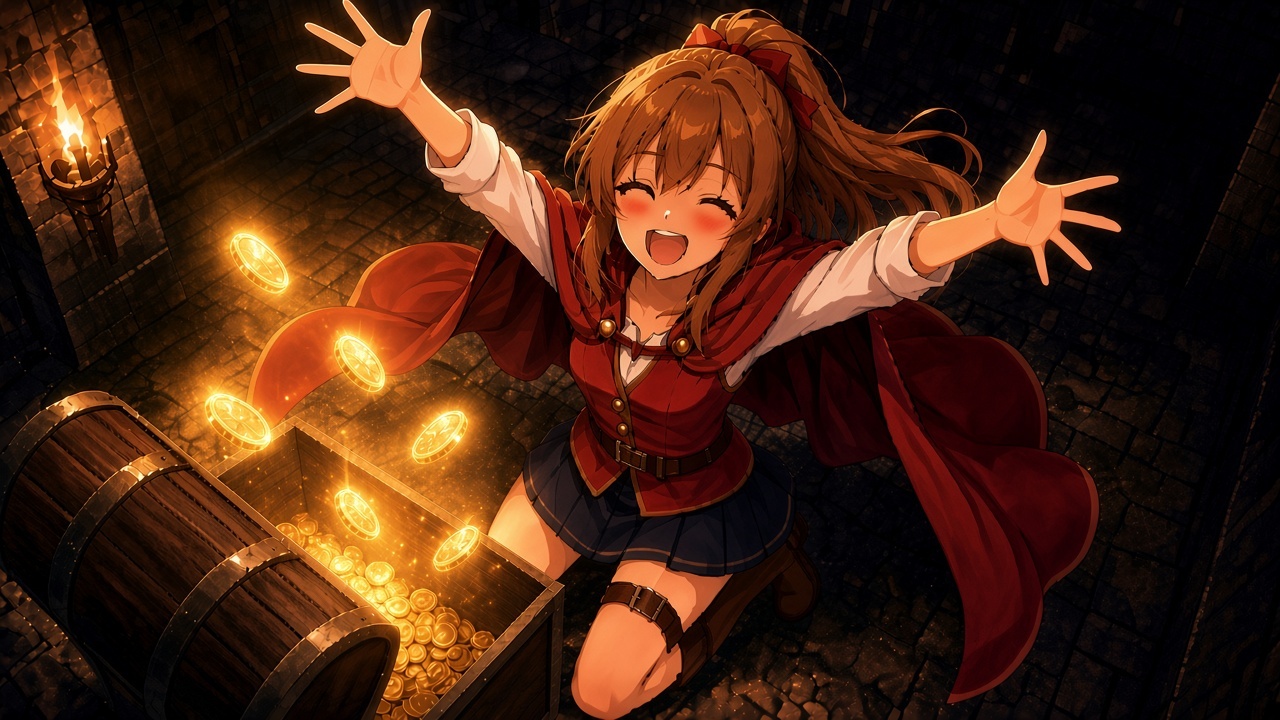
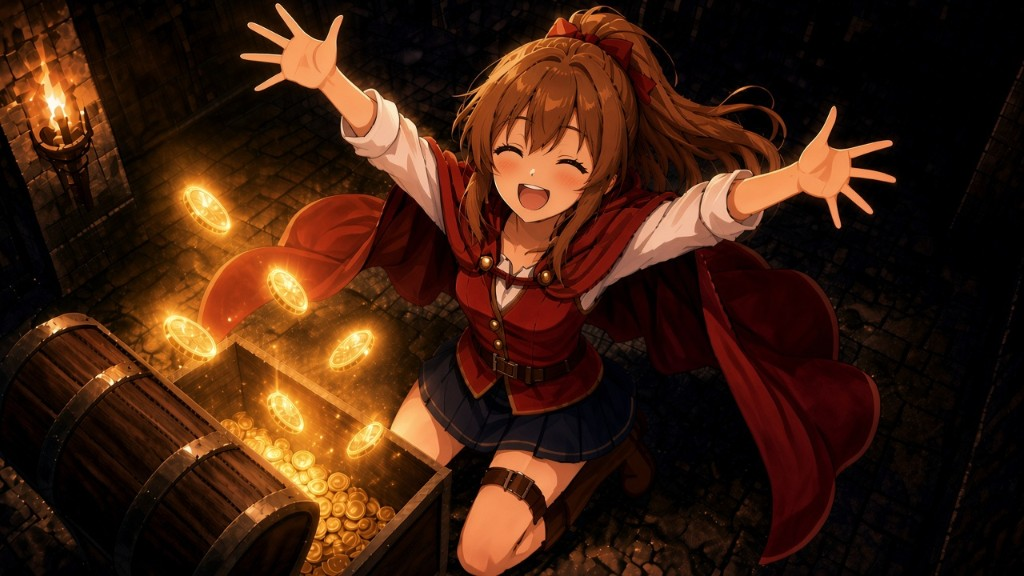
勝利の一枚絵を、宝箱の前で両手を広げる絵に差し替える。

diff --git a/index.html b/index.html
@@ -7159,7 +7159,7 @@
         battle: "girl-battle.png?v=40",
         battleRatio: "3 / 4",
         defeat: "girl-defeat.jpg?v=17",
-        victory: "girl-victory.jpg?v=26",
+        victory: "girl-victory.jpg?v=27",
         bless: "event-bless.jpg?v=2",
       },
     ];
@@ -11362,7 +11362,7 @@
             </div>
             <div class="ref-grid">
               ${sheetFig("girl-defeat.jpg?v=17", "敗北", "land-ref", "wide-land")}
-              ${sheetFig("girl-victory.jpg?v=26", "勝利", "land-ref", "wide-land")}
+              ${sheetFig("girl-victory.jpg?v=27", "勝利", "land-ref", "wide-land")}
             </div>
             <h3>ジョブ選択</h3>
             <div class="ref-grid">
